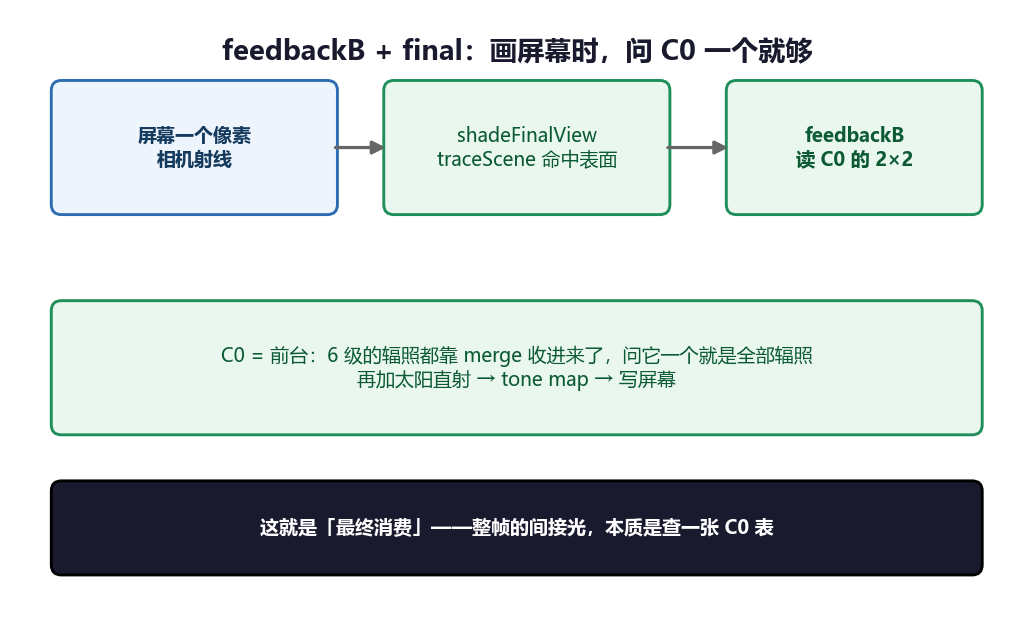
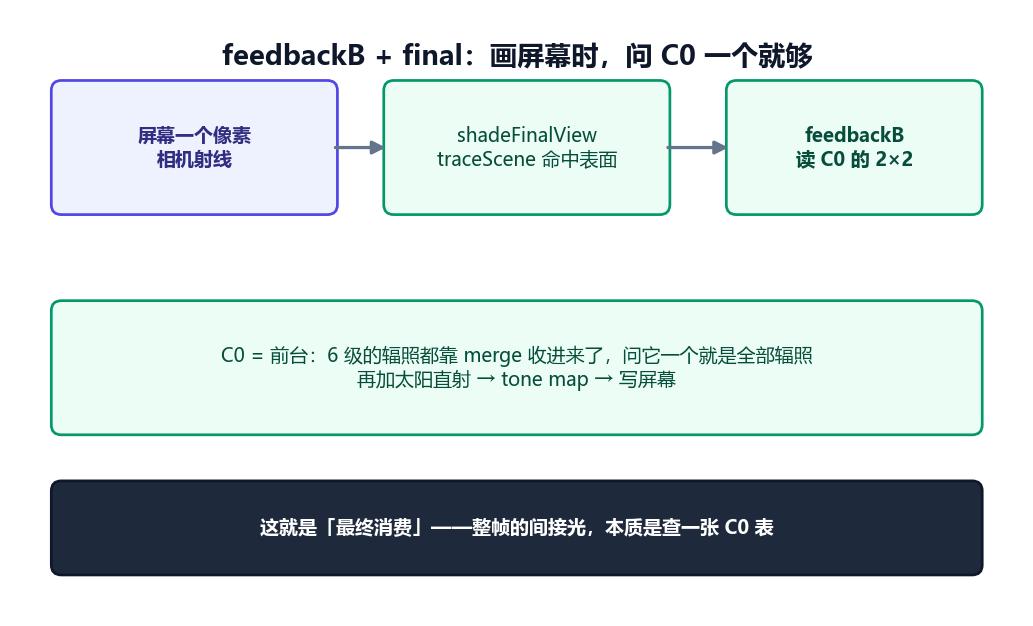
docs: add figure captions + clean consistent diagram palette + renderdoc-algorithm-article skill

diff --git a/.kilo/skills/renderdoc-algorithm-article/SKILL.md b/.kilo/skills/renderdoc-algorithm-article/SKILL.md
@@ -1,0 +1,87 @@
+---
+name: renderdoc-algorithm-article
+description: Write a deep-dive teaching article that reverse-engineers a GPU algorithm from a RenderDoc .rdc capture and explains it to an audience — grounded in real captured evidence (shader source, buffer decode, atlas hierarchies, shader-edit ablations), following a fixed skeleton (TL;DR → why → wrong/right → thread → tree → branches → takeaways). Use when the user wants to "write an article / explain / teach / dump the learning from reverse-engineering" a GPU algorithm.
+---
+
+# RenderDoc Algorithm Article
+
+## When to use
+
+- The user wants an article that reverse-engineers a GPU algorithm from a `.rdc` and teaches it to readers.
+- The user says "写文章 / 讲清这个算法 / 把学习沉淀下来 / 给读者讲".
+- You have (or can produce) real capture evidence: shader source, buffers, textures, replays.
+
+## When NOT to use
+
+- No capture, no real data — never fabricate the evidence.
+- The deliverable is a Zhihu paste pack (use the writing skill for platform rules), not the method itself.
+
+## The skeleton (fixed order)
+
+```
+标题
+  → TL;DR              3–5 条可抄判断，扫完能走
+  → 为什么 / 验证哪条   正文第一块：这篇验证的是什么能力（不是待办说明）
+  → 错路对照           先画读者会想错的，再画正路；开口主线落这
+  → 脉络               需求 → 接缝 → 树根 → 主干 → 切开（配是什么/不是什么表）
+  → 树全貌             整条管线 + 完整源码（源码从 .rdc 取，不是 repo 抄）
+  → 按枝往下讲          每个函数 = 一根枝
+  → 收获和结论          5–7 条能搬走的判断 + 一句把主线落地
+  → PS / PPS / PPPS     三层附言，缺一不可
+```
+
+Each branch (枝) is a fixed four-step beat:
+
+```
+人话（一句） → 是什么/不是什么 → 代码片段 → 一张图 + caption
+```
+
+## Evidence: what to pull from the .rdc, and where it goes
+
+| Evidence | Tool | Goes in |
+|---|---|---|
+| 完整 shader 源码 | `get_shader_source`（`is_source_text` 判 GLSL vs binary） | 树全貌 |
+| 管线结构 / dispatch 数 | `get_frame_summary` | 树全貌（13≠6 这类「文档没写的真相」） |
+| buffer 解码（场景契约等） | `export_buffer` → 按 SSBO struct 解码 | 树全貌 / 对应枝 |
+| atlas 层级（trace α / 辐照 RGB） | `export_texture` + α 通道 colormap | 对应枝（shadeLocal / merge） |
+| 每通道极值对账 | `get_texture_stats` | 对应枝（数字对上源码） |
+| 改 shader 重放（merge 开/关等） | `compile_shader` → `replace_shader` → `replay_event` → `export_render_target` | 对应枝（「不这样会怎样」） |
+
+## Figure design rules
+
+1. **每张图都要 caption**：`图 N：一句话`，放在图下方。Caption 是论点的人话版，不是「如图所示」。
+2. **颜色语义一致**，不要随手换：
+   - 结构/流程 = indigo/蓝
+   - 是什么 / 正路 = 绿
+   - 不是什么 / 错路 = 红（红字钉「不是什么」）
+   - 背景/上下文 = 灰
+   - 结论/落锤 = 深 slate（白字，一张图最多一处）
+3. **概念图与真实数据图分开**：概念图是画的（管线、数据流），真实数据图是导出的（atlas、buffer、重放帧）。真实数据图必须标来源（哪个 `.rdc`、哪个 resource）。
+4. **标题即论点**：图的标题（alt）就是这张图要证明的那句话。
+
+## 写作纪律
+
+- **说人话**：先比喻后术语。α = 量尺，merge = 接力赛，decodeProbe = 查座位，traceScene = 手电筒，probeSize = 半影假设的两条腿。
+- **是什么 / 不是什么**：每段先说它是什么，紧跟它不是什么。
+- **图先行**：每个独立论点一张图，宁多不少。
+- **禁 mermaid / SVG**（知乎不渲染）；图必须是 PNG。
+- 去 AI 味：`不是X而是Y` ≤ 2、无黑话（落地/链路/闭环）、意义通胀清零、`真正/确实/实际上` 压到近零。
+
+## 已知坑（写文章时踩过的）
+
+- **`export_texture` / `get_texture_stats` 读的是初始捕获态，不是重放态**。改 shader 重放后想拿「新 atlas」会拿到旧内容；只有 `export_render_target` 反映重放结果。所以「merge 开/关」的对比用最终帧，不用 atlas。
+- **`uMode=0`（布局）生产路径从不 dispatch**：布局在 CPU 侧用 oracle 算好，GPU 只跑 transport + final。写「一个 shader 三种模式」时要说清这一点，别让读者以为三路都跑。
+- **dispatch 数可能 ≠ 文档写的数**（split-dispatch 没写进注释）。这是「源码 vs 捕获对账」最有说服力的一例。
+
+## Worked example
+
+`docs/renderdoc-mcp-live-proof-zhihu/` — 逆向 Radiance Cascades：
+- `article.md`：完整骨架（TL;DR → 为什么 → 错路 → 脉络 → 树 → 六枝 → 收获 → PS/PPS/PPPS）。
+- `rc-visualizer.html`：配套交互页（见 `renderdoc-interactive-visualizer` skill）。
+- 18 张图：概念图（01–11、14）+ 真实数据图（scene-data / trace-hierarchy / rgb-hierarchy / merge-on-off / final-frame / ablation 帧）。
+
+## Deliverable
+
+- `article.md`（无 mermaid/SVG，每图有 caption）
+- `images/*.png`（概念图 + 真实数据图）
+- `PUBLISH.md`（标题、导语、上传顺序）

diff --git a/AGENTS.md b/AGENTS.md
@@ -11,6 +11,7 @@ Reusable workflows for this repo live in `.kilo/skills/`:
 - `renderdoc-extension` — safely modify the RenderDoc Python 3.6 extension.
 - `renderdoc-debug` — living debug protocol (seed at `seed-protocol.json`).
 - `renderdoc-interactive-visualizer` — single-file interactive HTML visualization of an algorithm from a capture (real data + concept + pan/zoom).
+- `renderdoc-algorithm-article` — write a deep-dive article that reverse-engineers a GPU algorithm from a capture and teaches it (skeleton + evidence + figures).
 
 Use these skills for multi-step RenderDoc work; use direct tool calls only for one-off reads.
 
